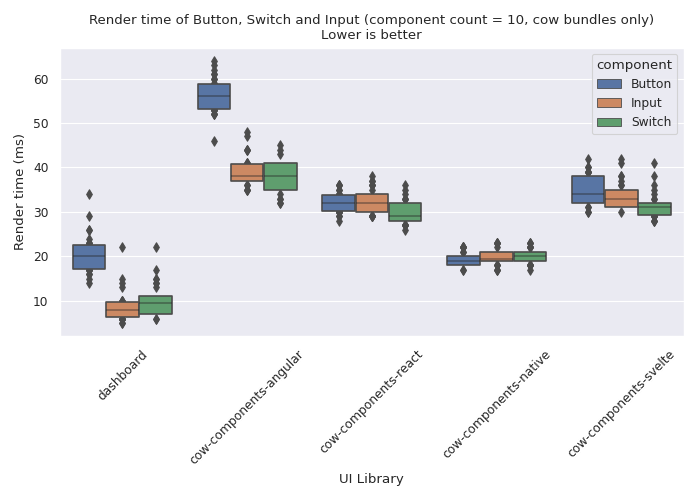
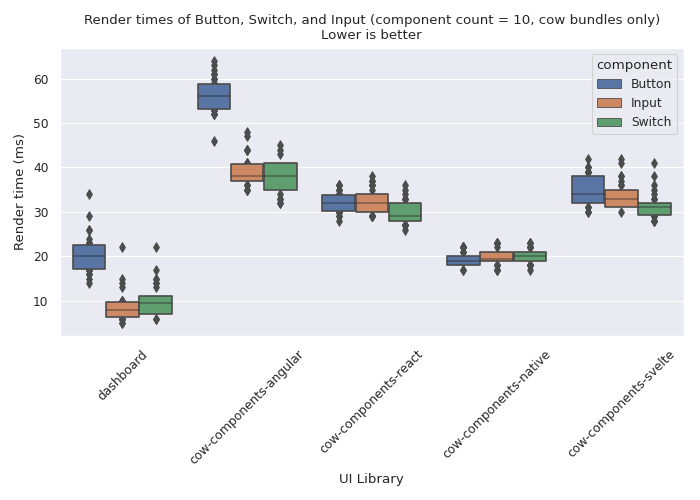
fix some grammar issues

Changed region(s): [[0.12, 0.03, 0.96, 0.06]]

diff --git a/paper/plots/generators/render_time/cow_plot.py b/paper/plots/generators/render_time/cow_plot.py
@@ -27,7 +27,7 @@ def generate_render_time_cow_plot():
 
     for count in [1, 10, 100]:
         ax = create_plot(
-            f"Render time of Button, Switch and Input (component count = {count}, cow bundles only)\nLower is better",
+            f"Render times of Button, Switch, and Input (component count = {count}, cow bundles only)\nLower is better",
             "boxen",
             data,
             None,

diff --git a/paper/plots/generators/render_time/all_plot_big.py b/paper/plots/generators/render_time/all_plot_big.py
@@ -24,7 +24,7 @@ def generate_render_time_all_plot_big():
 
     for count in [1, 10, 100]:
         ax = create_plot(
-            f"Render time of Button, Switch and Input (component count = {count})\nLower is better",
+            f"Render times of Button, Switch, and Input (component count = {count})\nLower is better",
             "boxen",
             data,
             None,
